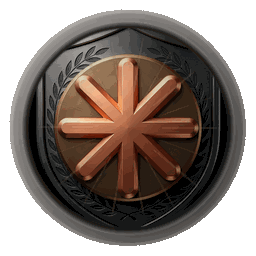
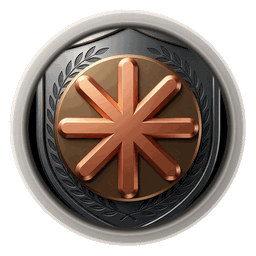
fix(achievements): open the sheet from the pedestal, rank by difficulty
- Make the equipped pedestal clickable like the grid cards and show the loaded
  main-bundle hash so a stale WebView is visible at a glance.
- Roll the survivor art back, give MiniMax an ocean backdrop, and order every
  title by a computed difficulty score (colours stay identity).

diff --git a/dashboard/src/ui/achievements/title-registry.js b/dashboard/src/ui/achievements/title-registry.js
@@ -4,14 +4,12 @@ import { useState, useEffect } from "react";
  * =========================================================================
  * 极客称号殿堂 · 羁绊共鸣开放设计架构 (Open Architecture Design)
  * =========================================================================
- * 1. 难度与色彩递进 (Ascending Difficulty & Color Progression):
- *    - 称号按获取难度从易到难严格排序（1 到 13 阶）；
- *    - 色彩从质朴内敛逐渐演进到炫酷璀璨：
- *      Rank 1~3  (初入门径): 质朴古铜、晨曦天青、雅致竹青
- *      Rank 4~6  (登堂入室): 深洋碧青、炽烈熔火、铁灰牛马
- *      Rank 7~9  (炉火纯青): 幽夜紫电、圣堂深蓝、冷银电路
- *      Rank 10~12(登峰造极): 璀璨琉璃金、霓虹极光紫、华夏赤金
- *      Rank 13   (至高): 全光谱星冕（炫彩）
+ * 1. 难度排序 (Difficulty order):
+ *    - 称号按 `difficulty` 从易到难排序；分值 = 成员徽章所需品阶权重
+ *      （青铜1/白银2/黄金4/钻石7）× 成员数，大满贯×10、领奖台×3；
+ *      同分时成员多的排后。排序结果就是殿堂里的展示顺序。
+ *    - 颜色是称号自己的身份色（identity），不随排序或共鸣改变；越难解锁的
+ *      称号在设计时本就配了更炫的身份色，但不要用颜色反推难度。
  *
  * 2. 称号定死颜色，共鸣改变特效 (Fixed Title Identity, Dynamic Resonance VFX):
  *    - 每个称号拥有固定且专属的色彩基调与阵营身份（Brand/Title Identity Hue）；
@@ -29,10 +27,11 @@ import { useState, useEffect } from "react";
  * =========================================================================
  */
 
-export const TITLES_REGISTRY = [
-  // 1. 零元购 (Rank 1: 质朴古铜 · 初入门径)
+const TITLES_UNSORTED = [
+  // 零元购 (Rank 1: 质朴古铜 · 初入门径)
   {
     id: "frugal_archmage",
+    difficulty: 3.2,
     name: "零元购",
     en: "Zero-Cost Cart",
     desc: "羊毛宗师与白嫖之光双修，把每一次调用都过成零元购。",
@@ -54,9 +53,10 @@ export const TITLES_REGISTRY = [
       accentDot: "bg-amber-400",
     },
   },
-  // 2. 极速先锋 · 赛博狂飙者 (Rank 2: 晴空天蓝 · 晨曦微风)
+  // 极速先锋 · 赛博狂飙者 (Rank 2: 晴空天蓝 · 晨曦微风)
   {
     id: "cyber_speedster",
+    difficulty: 2.0,
     name: "极速先锋 · 赛博狂飙者",
     shortName: "赛博狂飙者",
     en: "Hyperspeed Pioneer",
@@ -82,9 +82,10 @@ export const TITLES_REGISTRY = [
       accentDot: "bg-sky-400",
     },
   },
-  // 3. 生活禅者 (Rank 3: 雅致竹青翡翠 · 碧玉禅心)
+  // 生活禅者 (Rank 3: 雅致竹青翡翠 · 碧玉禅心)
   {
     id: "zen_master",
+    difficulty: 3.1,
     name: "生活禅师",
     en: "Zen Master",
     desc: "周内高效输出，周末彻底拔电，AI 时代清醒的生活家。",
@@ -106,9 +107,10 @@ export const TITLES_REGISTRY = [
       accentDot: "bg-emerald-400",
     },
   },
-  // 4. 一人公司 OPC (Rank 4: 深洋碧青 · 一人军团)
+  // 一人公司 OPC (Rank 4: 深洋碧青 · 一人军团)
   {
     id: "fleet_admiral",
+    difficulty: 7.3,
     name: "一人公司",
     en: "One Person Company",
     desc: "个人 + AI 驱动完整业务：工具、模型、分身与全天候节奏全部由一个人调度。",
@@ -140,9 +142,10 @@ export const TITLES_REGISTRY = [
       accentDot: "bg-teal-400",
     },
   },
-  // 5. 极客代码巨炮 (Rank 5: 炽烈熔火 · 算力炽焰)
+  // 极客代码巨炮 (Rank 5: 炽烈熔火 · 算力炽焰)
   {
     id: "code_cannon_overlord",
+    difficulty: 4.0,
     name: "极客代码巨炮",
     en: "Code Overlord",
     desc: "极简提示词输入，排山倒海的代码万行奔涌落地。",
@@ -164,9 +167,10 @@ export const TITLES_REGISTRY = [
       accentDot: "bg-rose-400",
     },
   },
-  // 6. 天选牛马 (Rank 6: 铁灰牛马 · 四件套全开)
+  // 天选牛马 (Rank 6: 铁灰牛马 · 四件套全开)
   {
     id: "chosen_drudge",
+    difficulty: 5.1,
     name: "天选牛马",
     en: "Chosen Drudge",
     desc: "分身、早鸟、周末与连胜四件套全开——天选的牛马，AI 时代的劳模。",
@@ -196,9 +200,10 @@ export const TITLES_REGISTRY = [
       accentDot: "bg-zinc-300",
     },
   },
-  // 7. 赛博修仙者 (Rank 7: 幽夜紫电 · 夜战定道)
+  // 赛博修仙者 (Rank 7: 幽夜紫电 · 夜战定道)
   {
     id: "cyber_immortal",
+    difficulty: 4.1,
     name: "赛博修仙者",
     en: "Cyber Immortal",
     desc: "在万籁俱寂的深夜，与 AI 一同入定悟道。",
@@ -220,9 +225,10 @@ export const TITLES_REGISTRY = [
       accentDot: "bg-purple-400",
     },
   },
-  // 8. 神之信徒 (Rank 8: 圣堂深蓝 · 纯血庄严)
+  // 神之信徒 (Rank 8: 圣堂深蓝 · 纯血庄严)
   {
     id: "openai_paladin",
+    difficulty: 3.0,
     name: "神之信徒",
     en: "Divine Devotee",
     desc: "执着于前沿 AGI 探索，笃信奥特曼灯塔的终极力量。",
@@ -244,9 +250,10 @@ export const TITLES_REGISTRY = [
       accentDot: "bg-indigo-400",
     },
   },
-  // 9. 冯诺依曼派 (Rank 9: 冷银电路 · 体系结构)
+  // 冯诺依曼派 (Rank 9: 冷银电路 · 体系结构)
   {
     id: "von_neumann",
+    difficulty: 5.2,
     name: "冯诺依曼派",
     en: "Von Neumann School",
     desc: "终端、缓存、重构、深思四线贯通，用体系结构的方法调度一切算力。",
@@ -276,9 +283,10 @@ export const TITLES_REGISTRY = [
       accentDot: "bg-cyan-300",
     },
   },
-  // 10. 全知全能架构师 (Rank 10: 璀璨琉璃金 · 睿智博学)
+  // 全知全能架构师 (Rank 10: 璀璨琉璃金 · 睿智博学)
   {
     id: "omniscient_architect",
+    difficulty: 8.0,
     name: "全知全能架构师",
     en: "Omniscient Architect",
     desc: "通晓各大模型脾气与数十种开发工具的奇门遁甲。",
@@ -300,9 +308,10 @@ export const TITLES_REGISTRY = [
       accentDot: "bg-yellow-400",
     },
   },
-  // 11. 诸神信使 · 硅谷三巨头 (Rank 11: 霓虹极光紫 · 闭源巅峰)
+  // 诸神信使 · 硅谷三巨头 (Rank 11: 霓虹极光紫 · 闭源巅峰)
   {
     id: "silicon_trinity",
+    difficulty: 3.5,
     name: "诸神信使 · 硅谷三巨头",
     shortName: "诸神信使",
     en: "Silicon Valley Trinity",
@@ -312,7 +321,7 @@ export const TITLES_REGISTRY = [
     art: "/achievements/titles/title-silicon-trinity.png?v=5",
     requiredBadges: [
       { id: "closed_source_loyalist", name: "神说要有光", tier: 1, art: "/achievements/closed-source-loyalist.png?v=6" },
-      { id: "claude_survivor", name: "封号幸存者", tier: 1, art: "/achievements/claude-survivor.png?v=12" },
+      { id: "claude_survivor", name: "封号幸存者", tier: 1, art: "/achievements/claude-survivor.png?v=13" },
       { id: "north_america_doubao", name: "北美豆包", tier: 1, art: "/achievements/north-america-doubao.png?v=6" },
     ],
     check: (badgeMap) =>
@@ -330,9 +339,10 @@ export const TITLES_REGISTRY = [
       accentDot: "bg-fuchsia-400",
     },
   },
-  // 12. 九州极客 · 四象掌门 (Rank 12: 华夏赤金 · 四象归一)
+  // 九州极客 · 四象掌门 (Rank 12: 华夏赤金 · 四象归一)
   {
     id: "cn_quad_masters",
+    difficulty: 5.3,
     name: "九州极客 · 四象掌门",
     shortName: "四象掌门",
     en: "Domestic Quad Titans",
@@ -344,7 +354,7 @@ export const TITLES_REGISTRY = [
       { id: "wishing_well", name: "许愿池(DeepSeek)", tier: 1, art: "/achievements/wishing-well.png?v=11" },
       { id: "zhipu_sage", name: "智谱乾坤", tier: 1, art: "/achievements/zhipu-sage.png?v=7" },
       { id: "moonshot_voyager", name: "暗面行者", tier: 1, art: "/achievements/moonshot-voyager.png?v=7" },
-      { id: "minimax_abyss", name: "海螺巨兽", tier: 1, art: "/achievements/minimax-abyss.png?v=7" },
+      { id: "minimax_abyss", name: "海螺巨兽", tier: 1, art: "/achievements/minimax-abyss.png?v=8" },
     ],
     check: (badgeMap) =>
       (badgeMap.get("wishing_well")?.tier || 0) >= 1 &&
@@ -362,9 +372,10 @@ export const TITLES_REGISTRY = [
       accentDot: "bg-orange-400",
     },
   },
-  // 13. 机械降神 (Rank 13: 全光谱神机 · 至高王座)
+  // 机械降神 (Rank 13: 全光谱神机 · 至高王座)
   {
     id: "grand_slam_legend",
+    difficulty: 13.0,
     name: "机械降神",
     en: "Deus Ex Machina",
     desc: "勋章架上钻石熠熠生辉，且站在本机排行榜顶端——神机天降，登峰造极。",
@@ -390,6 +401,11 @@ export const TITLES_REGISTRY = [
     },
   },
 ];
+// Ranked by required-tier weight (bronze 1 / silver 2 / gold 4 / diamond 7),
+// multiplied by member count, with grand_slam ×10 and podium ×3 for the meta
+// badges. Ties break toward the title with more members. Colours are each
+// title's own identity and deliberately do not move with the rank.
+export const TITLES_REGISTRY = [...TITLES_UNSORTED].sort((a, b) => a.difficulty - b.difficulty);
 
 export const STORAGE_ACTIVE_TITLE = "tokentracker:active_title";
 export const EVENT_TITLE_CHANGED = "tokentracker:title_changed";

diff --git a/dashboard/src/ui/achievements/BadgeSynergyBanner.jsx b/dashboard/src/ui/achievements/BadgeSynergyBanner.jsx
@@ -48,6 +48,17 @@ export function getEffectiveTitleResonance(title, badgeMap, testMode, index) {
 export function BadgeSynergyBanner({ badges = [], resonanceTestMode = 0, onSelectBadge }) {
   const [activeTitleId, setActiveIdState] = useState(getActiveTitleId);
   const [gridOpen, setGridOpen] = useState(true);
+  const [buildId] = useState(() => {
+    try {
+      const sources = [...document.querySelectorAll('script[type="module"]')]
+        .map((el) => el.getAttribute("src") || "");
+      const src = sources.find((value) => value.includes("/assets/main-"))
+        || sources.find((value) => value.includes("/assets/"));
+      return src ? src.split("/assets/")[1].slice(0, 8) : "";
+    } catch {
+      return "";
+    }
+  });
   const [detailTitle, setDetailTitle] = useState(null);
 
   const badgeMap = new Map((badges || []).map(function (b) { return [b.id, b]; }));
@@ -115,6 +126,9 @@ export function BadgeSynergyBanner({ badges = [], resonanceTestMode = 0, onSelec
               {gridOpen ? <ChevronUp className="h-3 w-3" /> : <ChevronDown className="h-3 w-3" />}
               {gridOpen ? "收起称号" : "展开称号"}
             </button>
+            <span className="text-[10px] font-mono text-white/30" title="当前加载的前端构建">
+              build {buildId || "?"}
+            </span>
           </div>
           <p className="mt-1.5 text-xs text-gray-300 max-w-xl">
             当核心勋章达到指定品阶时触发羁绊共鸣，融合多维算力与工程习惯，加冕你的极客专属荣耀称号。
@@ -124,7 +138,16 @@ export function BadgeSynergyBanner({ badges = [], resonanceTestMode = 0, onSelec
         {/* Active Title Showcase Card */}
         {activeTitle && (
           <div
-            className={`flex items-center gap-4 rounded-2xl border-2 px-5 py-3 shadow-2xl backdrop-blur-xl transition-all duration-300 ${
+            role="button"
+            tabIndex={0}
+            onClick={() => setDetailTitle({ title: activeTitle, resonance: activeResonance })}
+            onKeyDown={(e) => {
+              if (e.key === "Enter" || e.key === " ") {
+                e.preventDefault();
+                setDetailTitle({ title: activeTitle, resonance: activeResonance });
+              }
+            }}
+            className={`flex cursor-pointer items-center gap-4 rounded-2xl border-2 px-5 py-3 shadow-2xl backdrop-blur-xl transition-all duration-300 hover:brightness-110 ${
               activeTitle.theme.border
             } bg-gradient-to-r ${activeTitle.theme.bgGradient} ${activeTitle.theme.glow}`}
           >

diff --git a/dashboard/src/ui/achievements/badge-catalog.js b/dashboard/src/ui/achievements/badge-catalog.js
@@ -78,7 +78,7 @@ export const BADGE_CATALOG = [
   { id: "deep_diver", scope: "cloud", icon: Anchor, format: "count", art: "/achievements/deep-diver.png?v=11" },
   { id: "multitool_day", scope: "cloud", icon: Layers, format: "count", art: "/achievements/multitool-day.png?v=11" },
   { id: "heart_model", scope: "cloud", icon: HeartPulse, format: "percent", art: "/achievements/heart-model.png?v=8" },
-  { id: "claude_survivor", scope: "cloud", hidden: true, icon: Skull, format: "tokens", art: "/achievements/claude-survivor.png?v=12" },
+  { id: "claude_survivor", scope: "cloud", hidden: true, icon: Skull, format: "tokens", art: "/achievements/claude-survivor.png?v=13" },
   { id: "wishing_well", scope: "cloud", icon: Coins, format: "tokens", art: "/achievements/wishing-well.png?v=11" },
   { id: "grand_slam", scope: "cloud", icon: Trophy, format: "count", art: "/achievements/grand-slam.png?v=11" },
   { id: "project_hopper", scope: "local", icon: FolderGit2, format: "count", art: "/achievements/project-hopper.png?v=7" },
@@ -110,7 +110,7 @@ export const BADGE_CATALOG = [
   // Wave-4 badges (2026-10-24)
   { id: "zhipu_sage", scope: "local", icon: Sparkles, format: "tokens", art: "/achievements/zhipu-sage.png?v=7" },
   { id: "moonshot_voyager", scope: "local", icon: MoonStar, format: "tokens", art: "/achievements/moonshot-voyager.png?v=7" },
-  { id: "minimax_abyss", scope: "local", icon: Anchor, format: "tokens", art: "/achievements/minimax-abyss.png?v=7" },
+  { id: "minimax_abyss", scope: "local", icon: Anchor, format: "tokens", art: "/achievements/minimax-abyss.png?v=8" },
   { id: "north_america_doubao", scope: "local", icon: Bot, format: "tokens", art: "/achievements/north-america-doubao.png?v=6" },
   { id: "hyperspeed_grok", scope: "local", icon: Rocket, format: "tokens", art: "/achievements/hyperspeed-grok.png?v=6" },
   { id: "qwen_dynasty", scope: "local", icon: Crown, format: "tokens", art: "/achievements/qwen-dynasty.png?v=7" },

diff --git a/scripts/art/add-brand-backdrops.py b/scripts/art/add-brand-backdrops.py
@@ -140,9 +140,25 @@ def rays(d, color):
         x1, y1 = C + math.cos(a) * 96, C + math.sin(a) * 96
         d.line([(x0, y0), (x1, y1)], fill=color, width=2)
 
+
+def ocean(d, color):
+    # Light shafts through water, then swell lines and bubbles.
+    for i in range(7):
+        x0 = 6 + i * 38
+        d.line([(x0, S), (x0 + 70, 0)], fill=color, width=9)
+    for i in range(6):
+        y0 = 42 + i * 30
+        pts = [(x, y0 + math.sin(x / 26.0 + i) * 7) for x in range(0, S + 6, 6)]
+        d.line(pts, fill=color, width=2)
+    for _ in range(26):
+        x = RNG.random() * S
+        y = RNG.random() * S
+        r = 1 + RNG.random() * 4
+        d.ellipse([x - r, y - r, x + r, y + r], outline=color)
+
 BRANDS = {
     "zhipu-sage": (tech_grid, (150, 190, 255, 255), 0.35, 0.34),
-    "minimax-abyss": (sonar, (120, 235, 255, 255), 0.30, 0.36),
+    "minimax-abyss": (ocean, (120, 235, 255, 255), 0.45, 0.34),
     "moonshot-voyager": (starfield, (210, 195, 255, 255), 0.40, 0.40),
     "qwen-dynasty": (cloud_bands, (205, 175, 255, 255), 0.28, 0.38),
     "seedance-master": (light_streaks, (150, 245, 230, 255), 0.26, 0.34),
@@ -202,10 +218,13 @@ def apply(name, draw_fn, color, blur, opacity):
     print("backdrop", name)
 
 
-def main():
+def main(only=None):
     for name, (fn, color, blur, opacity) in BRANDS.items():
+        if only and name not in only:
+            continue
         apply(name, fn, color, blur, opacity)
 
 
 if __name__ == "__main__":
-    main()
+    import sys
+    main(sys.argv[1:] or None)
